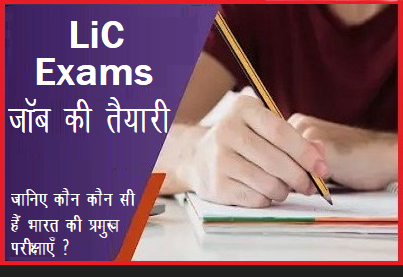
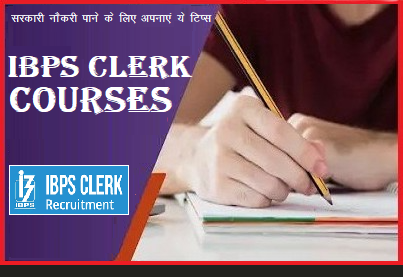
gk

Changed region(s): [[0.0, 0.2022, 0.4764, 0.491], [0.0, 0.5776, 0.3573, 0.9242], [0.0298, 0.0289, 0.536, 0.1733]]

diff --git a/Hindi-job/index.html b/Hindi-job/index.html
@@ -739,7 +739,90 @@ Sanskrit Mock Test<br>1400+ Question
                     <div class="row">
 
 
-                       
+   
+
+<!-- Start @@@@@@@@@@@@@@@@@@@@@@@@@@@@@@@@@@@@@@@@@@@@@@@@@@@@@@@@@@@@@@@@@@@@@@@@@@@@@@@@@@@@@@@@@@@@@@@@@@@@@@@@@@@@@@@@@@@@@@@@@@@@@@@@@@@@@@@@@@@@@@@@@@@@@@@@@@@@@@@@@@@@@@@@@@@ --><div class="col-6 col-sm-6 col-md-4 col-lg-4 col-xl-2">
+                      
+                                                          <div class="item"><div class=""><div class="video-thumb position-relative thumb-overlay">
+<a href="All-page/000-जॉब-की-तैयारी/LIC/page-01.html">
+
+<img alt="" class="img-fluid" src="All-page/000-जॉब-की-तैयारी/LIC/poster.png"></a>
+                                                          <div class="box-content"></li></ul></div></div>
+                                                          <div class="video-content"><h9 class="">
+<a href="All-page/000-जॉब-की-तैयारी/LIC/page-01.html">
+
+भारतीय जीवन बीमा निगम                                         </a></h9><div class="video-info d-flex align-items-center">
+                                                          <span class="video-age">
+Life Insurance Corporation <br> Complete Course 
+                                                          </span></div></div></div><!-- video Block End --></div>
+
+<br></div><!-- end @@@@@@@@@@@@@@@@@@@@@@@@@@@@@@@@@@@@@@@@@@@@@@@@@@@@@@@@@@@@@@@@@@@@@@@@@@@@@@@@@@@@@@@@@@@@@@@@@@@@@ -->
+
+
+
+
+<!-- Start @@@@@@@@@@@@@@@@@@@@@@@@@@@@@@@@@@@@@@@@@@@@@@@@@@@@@@@@@@@@@@@@@@@@@@@@@@@@@@@@@@@@@@@@@@@@@@@@@@@@@@@@@@@@@@@@@@@@@@@@@@@@@@@@@@@@@@@@@@@@@@@@@@@@@@@@@@@@@@@@@@@@@@@@@@@ --><div class="col-6 col-sm-6 col-md-4 col-lg-4 col-xl-2">
+                      
+                                                          <div class="item"><div class=""><div class="video-thumb position-relative thumb-overlay">
+<a href="All-page/000-जॉब-की-तैयारी/IBPS-Clerk/page-01.html">
+
+<img alt="" class="img-fluid" src="All-page/000-जॉब-की-तैयारी/IBPS-Clerk/poster.png"></a>
+                                                          <div class="box-content"></li></ul></div></div>
+                                                          <div class="video-content"><h9 class="">
+<a href="All-page/000-जॉब-की-तैयारी/IBPS-Clerk/page-01.html">
+
+आई.बी.पी.एस. क्लर्क                                         </a></h9><div class="video-info d-flex align-items-center">
+                                                          <span class="video-age">
+Institute of Banking Personnel Selection<br> Complete Course 
+                                                          </span></div></div></div><!-- video Block End --></div>
+
+<br></div><!-- end @@@@@@@@@@@@@@@@@@@@@@@@@@@@@@@@@@@@@@@@@@@@@@@@@@@@@@@@@@@@@@@@@@@@@@@@@@@@@@@@@@@@@@@@@@@@@@@@@@@@@ -->
+
+
+
+
+<!-- Start @@@@@@@@@@@@@@@@@@@@@@@@@@@@@@@@@@@@@@@@@@@@@@@@@@@@@@@@@@@@@@@@@@@@@@@@@@@@@@@@@@@@@@@@@@@@@@@@@@@@@@@@@@@@@@@@@@@@@@@@@@@@@@@@@@@@@@@@@@@@@@@@@@@@@@@@@@@@@@@@@@@@@@@@@@@ --><div class="col-6 col-sm-6 col-md-4 col-lg-4 col-xl-2">
+                      
+                                                          <div class="item"><div class=""><div class="video-thumb position-relative thumb-overlay">
+<a href="All-page/000-जॉब-की-तैयारी/IBPS-PO/page-01.html">
+
+<img alt="" class="img-fluid" src="All-page/000-जॉब-की-तैयारी/IBPS-PO/poster.png"></a>
+                                                          <div class="box-content"></li></ul></div></div>
+                                                          <div class="video-content"><h9 class="">
+<a href="All-page/000-जॉब-की-तैयारी/IBPS-PO/page-01.html">
+
+आई.बी.पी.एस. पीओ                                         </a></h9><div class="video-info d-flex align-items-center">
+                                                          <span class="video-age">
+Institute of Banking Personnel Selection Proba tionary  ( Complete Course )
+                                                          </span></div></div></div><!-- video Block End --></div>
+
+<br></div><!-- end @@@@@@@@@@@@@@@@@@@@@@@@@@@@@@@@@@@@@@@@@@@@@@@@@@@@@@@@@@@@@@@@@@@@@@@@@@@@@@@@@@@@@@@@@@@@@@@@@@@@@ -->
+
+
+
+
+
+
+
+
+
+
+
+
+
+
+
+
+
+
+
+
+
+
+
+
+
+
 <!-- Start @@@@@@@@@@@@@@@@@@@@@@@@@@@@@@@@@@@@@@@@@@@@@@@@@@@@@@@@@@@@@@@@@@@@@@@@@@@@@@@@@@@@@@@@@@@@@@@@@@@@@@@@@@@@@@@@@@@@@@@@@@@@@@@@@@@@@@@@@@@@@@@@@@@@@@@@@@@@@@@@@@@@@@@@@@@ --><div class="col-6 col-sm-6 col-md-4 col-lg-4 col-xl-2">
                       
                                                           <div class="item"><div class=""><div class="video-thumb position-relative thumb-overlay">
@@ -764,30 +847,6 @@ Banking job <br> Complete Course
 
 
 
-
-
-
-
-
-                       
-
-
-<!-- Start @@@@@@@@@@@@@@@@@@@@@@@@@@@@@@@@@@@@@@@@@@@@@@@@@@@@@@@@@@@@@@@@@@@@@@@@@@@@@@@@@@@@@@@@@@@@@@@@@@@@@@@@@@@@@@@@@@@@@@@@@@@@@@@@@@@@@@@@@@@@@@@@@@@@@@@@@@@@@@@@@@@@@@@@@@@ --><div class="col-6 col-sm-6 col-md-4 col-lg-4 col-xl-2">
-                      
-                                                          <div class="item"><div class=""><div class="video-thumb position-relative thumb-overlay">
-<a href="All-page/000-जॉब-की-तैयारी/LIC/page-01.html">
-
-<img alt="" class="img-fluid" src="All-page/000-जॉब-की-तैयारी/LIC/poster.png"></a>
-                                                          <div class="box-content"></li></ul></div></div>
-                                                          <div class="video-content"><h9 class="">
-<a href="All-page/000-जॉब-की-तैयारी/LIC/page-01.html">
-
-भारतीय जीवन बीमा निगम                                         </a></h9><div class="video-info d-flex align-items-center">
-                                                          <span class="video-age">
-Life Insurance Corporation <br> Complete Course 
-                                                          </span></div></div></div><!-- video Block End --></div>
-
-<br></div><!-- end @@@@@@@@@@@@@@@@@@@@@@@@@@@@@@@@@@@@@@@@@@@@@@@@@@@@@@@@@@@@@@@@@@@@@@@@@@@@@@@@@@@@@@@@@@@@@@@@@@@@@ -->
 
 
 
